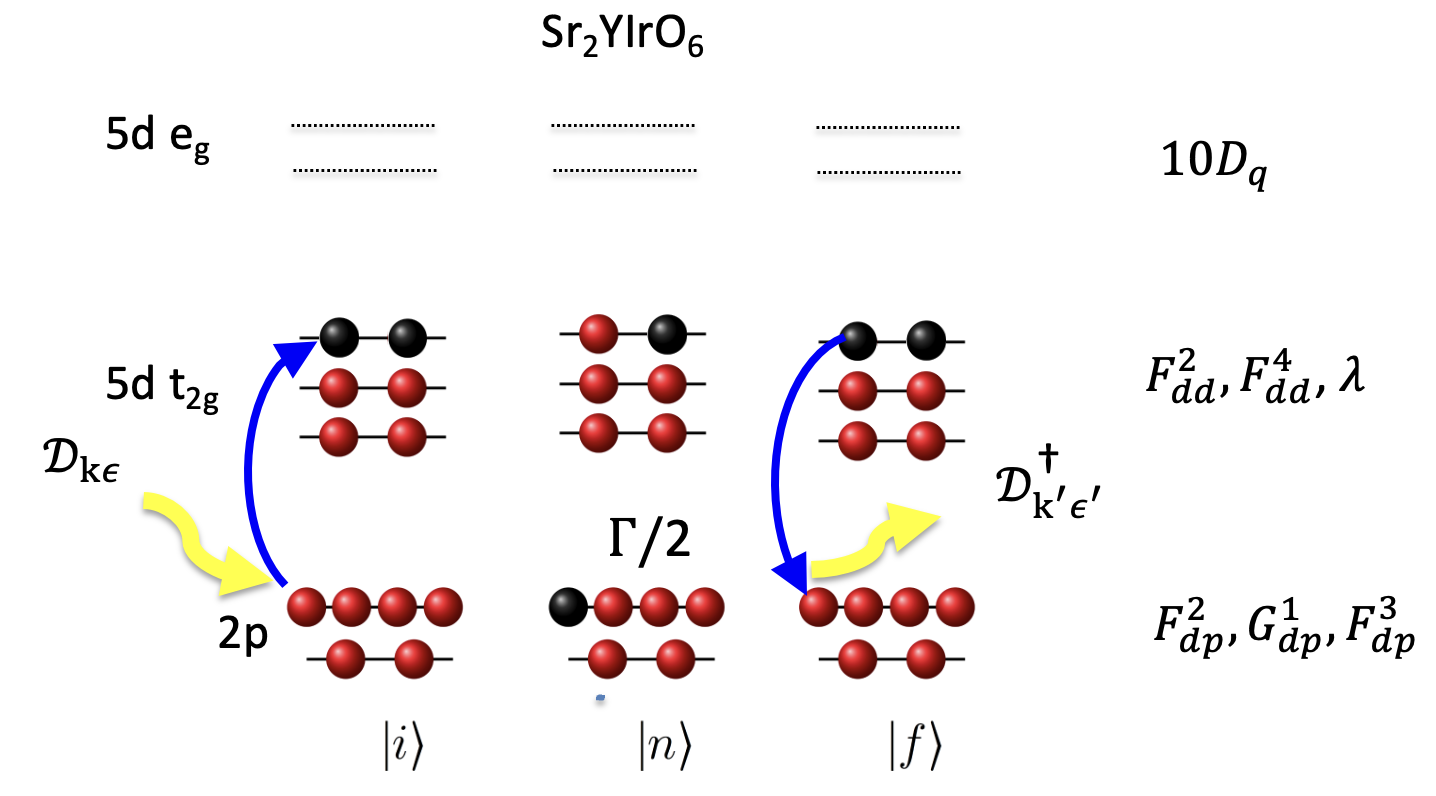
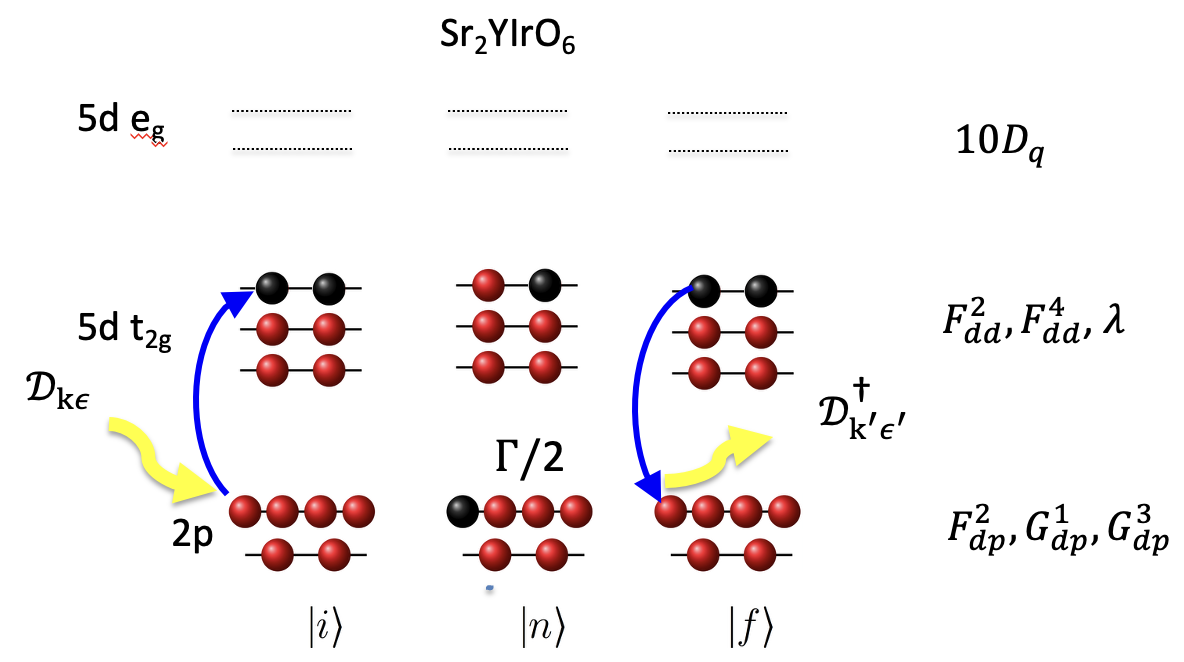
F->G typo correction and replaced figure

diff --git a/tutorials/atomic/atomic_model.md b/tutorials/atomic/atomic_model.md
@@ -163,12 +163,16 @@ out = edrixs.ed_1v1c_py(('d', 'p32'), shell_level=(0, -off), v_soc=v_soc,
                         v_cfmat=v_cfmat,
                         c_soc=info['c_soc'], v_noccu=v_noccu, slater=slater)
 eval_i, eval_n, trans_op = out
+```
 
+```{code-cell} ipython3
 xas_full_d_shell = edrixs.xas_1v1c_py(
     eval_i, eval_n, trans_op, ominc, gamma_c=info['gamma_c'],
     thin=thin, pol_type=pol_type,
     gs_list=gs_list)
+```
 
+```{code-cell} ipython3
 rixs_full_d_shell = edrixs.rixs_1v1c_py(
     eval_i, eval_n, trans_op, np.array([11215]), eloss,
     gamma_c=info['gamma_c'], gamma_f=gamma_f,
